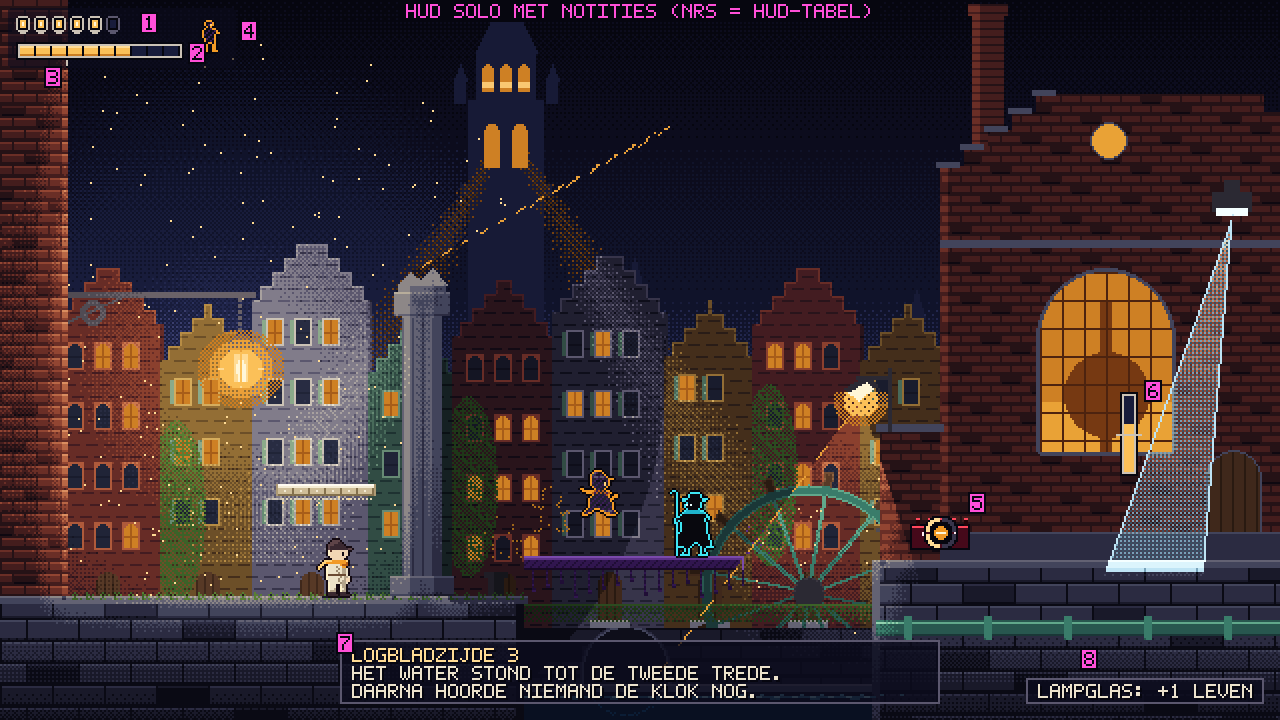
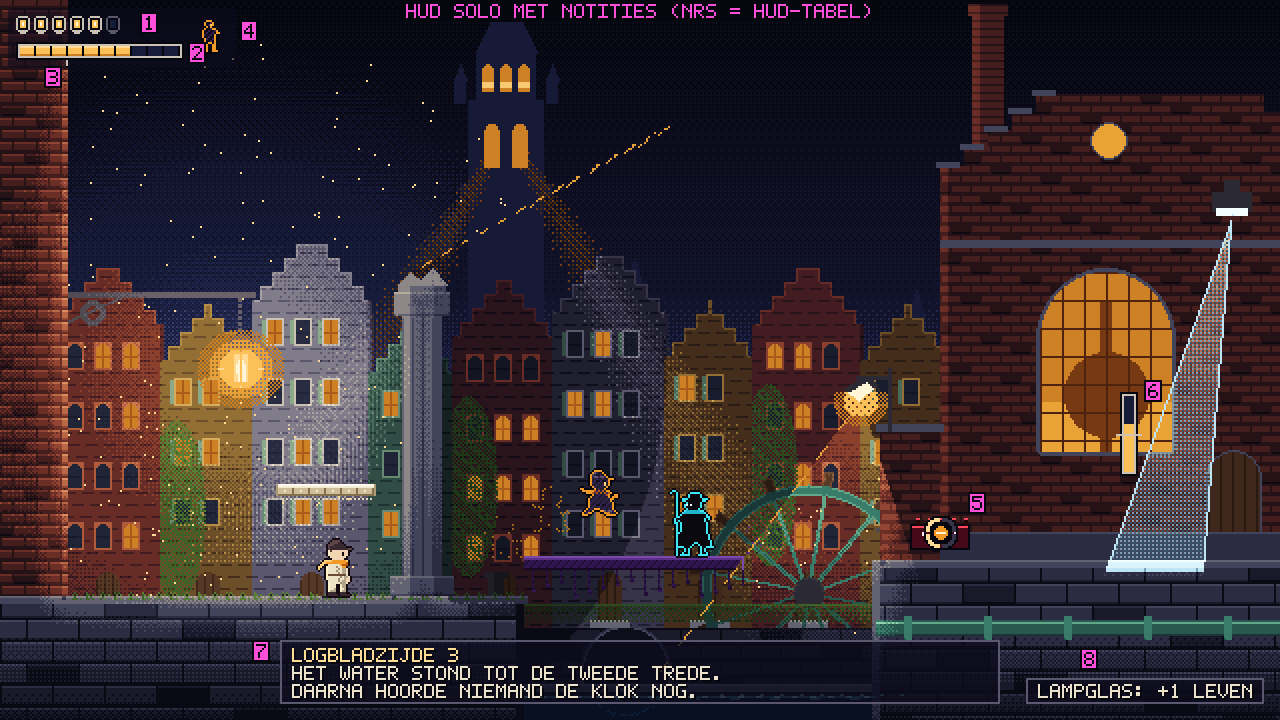
[ux-designer] SM-punten: logkader in px, finisher en boss-momenten in de HUD, TG-01 twee gevallen, storyboard (#87)
Claude-Session: https://claude.ai/code/session_01L3XQzdT9Xbva5wUXZXuhuo

Changed region(s): [[0.1875, 0.8556, 0.5938, 0.9778], [0.7188, 0.8861, 0.7812, 0.9778]]

diff --git a/docs/ux/wireframes/bron/genereer_wireframes.py b/docs/ux/wireframes/bron/genereer_wireframes.py
@@ -399,7 +399,7 @@ def hud_coop(img, L=60, hp=5, hpmax=5, p2="speelt", p2_v=1.0):
 
 def logkader(img, regel1, regel2, kop="LOGBLADZIJDE 3"):
     H, W = img.shape[:2]
-    w, h = 300, 32
+    w, h = 360, 32
     x, y = (W - w) // 2, H - 8 - h
     plaat(img, x, y, w, h, 0.78)
     frame(img, x, y, w, h, C["kader_d"])
@@ -512,7 +512,7 @@ def blad_hud_annotaties():
     gemaalmeter(img, 560, 196, 130)
     noot(img, 6, 572, 190)
     logkader(img, "HET WATER STOND TOT DE TWEEDE TREDE.", "DAARNA HOORDE NIEMAND DE KLOK NOG.")
-    noot(img, 7, 168, 316)
+    noot(img, 7, 126, 320)
     melding(img, "LAMPGLAS: +1 LEVEN")
     noot(img, 8, 540, 324)
     label(img, "HUD SOLO MET NOTITIES (NRS = HUD-TABEL)")
@@ -823,8 +823,6 @@ def blad_coop_storyboard():
     c = laad("r5_kleur_640x360.png")
     hud_coop(c, L=40, hp=5, p2="speelt")
     pijl_rand(c, 632, 230, 0.35)
-    dashed(c, 0, 0, 640, 360, C["noot"], 6)
-    txt(c, "MAX. ZOOM-UIT: 960X540 (1,5X)", 380, 330, C["noot"])
     label(c, "3. P2 BUITEN BEELD: PIJL + RING (60 TICKS)")
     panelen.append(c)
     # 4. drop-out: stoppen vasthouden

diff --git a/docs/ux/hud-menus.md b/docs/ux/hud-menus.md
@@ -1,6 +1,6 @@
 # UX-spec HUD en menu's *Polderlight*
 
-Versie 0.1.1 · Eigenaar: UX Designer (met de UI Artist voor de eind-art) · Issue [#87](https://github.com/cesarvangerwen-glitch/echoborn/issues/87) (T10, `docs/productie/fase-2-kader.md` §2) · Review: Lead Game Designer
+Versie 0.1.2 · Eigenaar: UX Designer (met de UI Artist voor de eind-art) · Issue [#87](https://github.com/cesarvangerwen-glitch/echoborn/issues/87) (T10, `docs/productie/fase-2-kader.md` §2) · Review: Lead Game Designer
 Co-op, drop-in/drop-out en de gedeelde camera: **`docs/ux/coop.md`**. Wireframes: **`docs/ux/wireframes/`** (bron: `bron/genereer_wireframes.py`, draait vanaf de repo-root en print de metingen van §2.3).
 
 Bronnen: `docs/design/gdd.md` v0.6.2 (§2.5–2.9, §2.12, O-2), `kernloop.md` §4, `wereld.md` §2.5 (rij T10) en WS-08, `gemaalmeester.md` GM-03/GM-08, `docs/art/bible.md` §2, §3, §5–7, `docs/audio/bible.md` §6.1, `docs/tech/input.md`, `docs/tech/ontwerp.md` §8a, `docs/tech/performance-flowkamer.md` §7 (punt 14, 15), pitch v0.4 (P2: "zichtbaar zonder icoon of uitleg").
@@ -156,15 +156,36 @@ Het merk zit **op het object**, niet in de HUD. Het moet in één blik zeggen: v
 
 ### 3.7 Logbladzijde (HUD-07)
 
-- Oppakken = lopend erdoorheen (geen knop). Onder in het midden verschijnt een kader van 300×32 px: kop *Logbladzijde n* (`HUD_LOG_KOP`) en de tekst van max. 2 regels (`verhaal-v2.md` §4.4). Het spel loopt door.
+- Oppakken = lopend erdoorheen (geen knop). Onder in het midden verschijnt een kader van **360×32 px** (binnenruimte 348 px breed na 6 px marge links en rechts): kop *Logbladzijde n* (`HUD_LOG_KOP`) en de tekst van max. 2 regels (`verhaal-v2.md` §4.4). Het spel loopt door.
 - Het kader blijft **6 s** (bij *Tekstgrootte: groot* 8 s) en schuift weg bij een nieuwe bladzijde of in een gevecht met een boss. Alles wat je oppakte, staat in **Pauze → Logboek** (MN-15); niets is te missen.
-- Een regel is max. 50 tekens in het Engels (NL ± 30 % langer, dus max. 65; §6). Langere tekst = twee bladzijden.
+- **Maximum in pixels:** een regel is in het gekozen lettertype **≤ 348 px** breed, in elke taal. Omdat NL tot 35 % langer is (§6), schrijft de Narrative Designer de Engelse regel op **≤ 258 px** (348 / 1,35). Gemeten met het wireframe-font (6 px per teken): ± 43 tekens EN, 58 NL. Bij het echte lettertype rekent de UI Artist dit om naar tekens (§7 punt 1). Past het niet: twee bladzijden, nooit kleiner zetten.
+- **Tekstgrootte groot** (TG-10, 1,5×): het kader groeit mee naar **540×48 px** (binnenruimte 528 px, regelhoogte 14 px), zodat er evenveel tekens per regel passen en het bij kop + 2 regels blijft. Het past nog in 640 px met 50 px aan elke kant.
 
 ### 3.8 Boss-balk (HUD-09)
 
 - **Waarom een balk:** de Gemaalmeester heeft fasen op 60 % en 20 % en een Wankel-moment op ≤ 20 % (GM-03, GM-08). Zonder balk ziet de speler niet hoe dicht de finisher is; dat kost bij een boss van 8–12 min (wereld §2.1) te veel spanning. Het is de enige plek waar we van "de wereld eerst" afwijken. **Besloten door de LGD** (Lead-review PR #129); de Combat Designer voegt niets toe.
 - **Vorm:** 240×4 px onder in het midden, met de naam erboven (`HUD_BOSS_GEMAALMEESTER`) en **fasestrepen op 60 % en 20 %**. Bij Wankel knippert de streep van 20 % in de kleur van gloed 6 en verschijnt de merkplek op de ketel (GM-08): de balk wijst, de wereld toont.
 - In co-op gelijk; één balk.
+- **Feedback per verplicht moment** (GM-09: geluid, schermschok en licht). UX legt het moment en de sterkte vast, de vorm komt van de genoemde rol:
+
+| Moment | Licht (beeld) | Schermschok (TG-02 schaalt) | Geluid | Vorm door |
+|---|---|---|---|---|
+| Schot breekt (GM-06) | de ketel slaat open en gloeit; vonken in de kleur van de ontsteker | middel, 8 ticks | breken van ijzer + ontploffing van het merk | Animator, Audio Director |
+| Kern open, 300 ticks (GM-06) | de kerngloed **pulseert sneller** in de laatste 60 ticks (zoals de klokring, zonder getal) | — | stoom die aanzwelt in de laatste 60 ticks | Art Director, Audio Director |
+| Grote rad geraakt (GM-07) | vonk op het rad, het rad draait een slag | klein, 4 ticks | ijzeren klap, toon per treffer stijgend | Animator, Audio Director |
+| Rad wisselt van kant, 180 ticks (GM-07) | de arm zwaait met een aanloop van ≥ 30 ticks (GM-04) | — | piepende as | Animator, Audio Director |
+| Lanceersprong (C-11, B4) | de lanceerhouding gloeit op de drager (amber of cyaan), de lancering trekt een streep | klein, 4 ticks | eigen klank voor houding en lancering | Animator, Audio Director |
+| Fasewissel naar 60 % (GM-07) | de streep van 60 % op de balk flitst; merken op de boss doven | middel, 8 ticks | grote klok | Art Director, Audio Director |
+| Wankel (GM-08) | zie hierboven (streep van 20 % knippert, merkplek verschijnt) | — | de maat van het carillon stopt | Combat Designer, Audio Director |
+
+### 3.8a De finisher (C-14) in de HUD
+
+De gedeelde echo speelt jullie laatste 10 s af in **120 ticks**; de finisher mislukt nooit (C-14d). De HUD volgt het mee, de wereld blijft het hoofdbeeld:
+- **Meter:** elke finisherslag geeft **+1 LP** (C-14c) en een vonk op de meter in de kleur van wie de slag oorspronkelijk sloeg (amber P1 en echo, cyaan P2). Een snelle reeks vonken laat de meter "tikken": je ziet je eigen 10 s terug.
+- **Boss-balk:** loopt van de streep van 20 % in **120 ticks lineair** leeg naar 0, met een kleine stap bij elke slag; op `t_f + 120` (`BOSS_VERSLAGEN`) verdwijnt hij met de naam.
+- **Rest van de HUD:** blijft staan (ook met *HUD: automatisch*); logkader en meldingen wachten tot na `BOSS_VERSLAGEN`.
+- **Schermschok:** klein (2 ticks) per slag, één grote op het einde; geschaald door TG-02.
+- **Flitsen verminderen** (TG-03): geen witte flits per slag en op het einde. In plaats daarvan een rand van 2 px in amber en cyaan om de gedeelde echo per slag, en op het einde een rand van 2 px om de boss.
 
 ### 3.9 Wat níét in de HUD komt
 
@@ -240,7 +261,7 @@ Wireframe: `menu_opties_toegankelijkheid_x2_placeholder.png`. Elke optie staat i
 
 | ID | Optie | Standaard | Wat het doet | Afhankelijk van |
 |---|---|---|---|---|
-| **TG-01** | **Vasthouden of tikken** | vasthouden | **Loslaten (E-09), genezen (LM-07) en stoppen (C-05)** werken met één druk: de handeling loopt evenveel ticks door, met dezelfde regels om af te breken (een tweede druk, een sprong of een treffer), dus het geeft geen voordeel. **Lanceerhouding (C-11a), alleen met *tikken*** (regel van de LGD): een **tweede AANVAL-druk binnen de herhaaltijd** (tick x+1…x+19 na een AANVAL-event op x; die druk geeft toch geen event, E-10) zet `aanval_vast` aan als **virtuele knop**. De houding loopt dan volgens C-11a vanaf x+12, tot de volgende AANVAL-flank, een DASH, de lanceertick (C-11d) of 120 ticks. De recorder neemt de virtuele bit op, zodat de echo hetzelfde doet. **Eén tik geeft nooit houding**: een bounce wordt niet per ongeluk een lancering. De lancering zelf komt zoals altijd door de landing van de springer (C-11b). | Besloten door de LGD (Lead-review PR #129) |
+| **TG-01** | **Vasthouden of tikken** | vasthouden | **Loslaten (E-09), genezen (LM-07) en stoppen (C-05)** werken met één druk: de handeling loopt evenveel ticks door, met dezelfde regels om af te breken (een tweede druk, een sprong of een treffer), dus het geeft geen voordeel. **Lanceerhouding (C-11a), alleen met *tikken*** (regel van de LGD): een **tweede AANVAL-druk binnen de herhaaltijd** (tick x+1…x+19 na een AANVAL-event op x; die druk geeft toch geen event, E-10) zet `aanval_vast` aan als **virtuele knop**. Twee gevallen: **(1) tweede druk op x+1…x+11**: de virtuele knop staat aan, maar de houding begint pas op **x+12** (C-11a: het event moet 12 ticks geleden zijn); **(2) tweede druk op x+12…x+19**: de houding begint **meteen**, op die tick. Een druk op x+20 of later is een gewone AANVAL-flank met een nieuw event, geen houding. De houding (en de virtuele knop) stopt bij de volgende AANVAL-flank, een DASH, de lanceertick (C-11d) of na **120 ticks, gerekend vanaf de tweede druk**. De recorder neemt de virtuele bit op, zodat de echo hetzelfde doet. **Eén tik geeft nooit houding**: een bounce wordt niet per ongeluk een lancering. De lancering zelf komt zoals altijd door de landing van de springer (C-11b). | Besloten door de LGD (Lead-review PR #129) |
 | **TG-02** | Schermschok | 100 % | 0–100 %, ook voor de ontploffingen | — |
 | **TG-03** | Flitsen verminderen | uit | Geen witte flits bij een volle meter, een ontploffing of een fasewissel; in plaats daarvan een rand van 2 px | Technical Artist |
 | **TG-04** | Echo-rand dikker | uit | Rand van de echo en P2 2 px in plaats van 1 (art bible §6) | Art Director |
@@ -276,11 +297,13 @@ Wireframe: `menu_opties_toegankelijkheid_x2_placeholder.png`. Elke optie staat i
 | 7 | **TG-01** bouwen: tik bij Loslaten, genezen en stoppen; bij de lanceerhouding de virtuele knop `aanval_vast` (tweede AANVAL-druk binnen x+1…x+19, houding vanaf x+12 tot de volgende AANVAL-flank, DASH, lanceertick of 120 ticks; de recorder neemt de bit op) | Gameplay Programmer | Met T8a |
 | 8 | Hulpmodus: beslist de LGD na T11, op basis van playtestdata | Lead Game Designer | Na T11 |
 | 9 | HUD bijstellen na F0 en na de eerste playtest van de slice (T11): verstaan spelers het echo-icoon en de klokring zonder uitleg? | UX Designer, QA Lead | Na F0 en T11 |
-| 10 | `docs/ux/besturing.md`, `docs/ux/onboarding.md` en `docs/ux/toegankelijkheid.md` (rolbestand) volgen in een eigen issue; deze spec dekt de opties van toegankelijkheid al | UX Designer | Fase 2, na T10 |
+| 10 | **NL-tekst per vak meten** (+35 %, §6) met het eerste lettertype van de UI Artist: past elk vak (logkader, meldingen, menu's, tabbladen)? | UI Artist, UX Designer | Bij het eerste font (§7 punt 1, na F1) |
+| 11 | `docs/ux/besturing.md`, `docs/ux/onboarding.md` en `docs/ux/toegankelijkheid.md` (rolbestand) volgen in een eigen issue; deze spec dekt de opties van toegankelijkheid al | UX Designer | Fase 2, na T10 |
 
 ## 8. Wijzigingen
 
 | Versie | Datum | Wat |
 |---|---|---|
+| 0.1.2 | 2026-11-10 | Na de SM-review (PR #129): logkader in px (360×32, groot 540×48); feedback per verplicht boss-moment (GM-09); de finisher in de HUD (§3.8a); TG-01 met de twee gevallen x+1…x+11 en x+12…x+19; open punt NL-tekst meten. |
 | 0.1.1 | 2026-11-10 | Na de Lead-review (PR #129): TG-01 bij de lanceerhouding met de regel van de LGD (virtuele knop); keuzes LGD: boss-balk ja, tikken bij genezen, Loslaten en stoppen ja, spelsnelheid nee, hulpmodus na T11; MN-14 verwijst naar CO-09. |
 | 0.1 | 2026-11-10 | Eerste versie (T10 deel 1, #87): HUD solo, merk-aftelling, grijs/kleur en Deck, menu's, opties, toegankelijkheid, taal; wireframes in `docs/ux/wireframes/`. |
